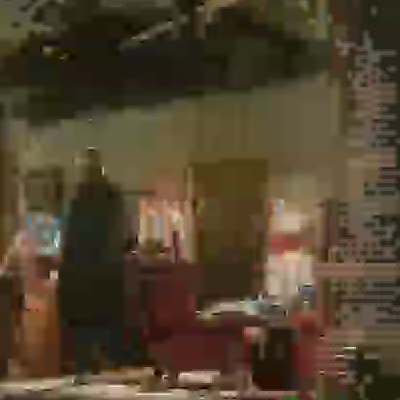
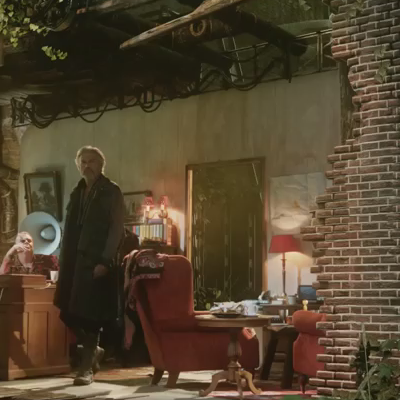
update versus

diff --git a/README.md b/README.md
@@ -106,17 +106,17 @@ Where legacy wavelet codecs (like JPEG 2000's EBCOT) and modern DCT codecs (with
 
 (CC) Blender Foundation | [mango.blender.org](https://mango.blender.org)
 
-#### 3. Frame 1395 (H.265 Min SSIM)
+#### 3. Frame 788 (H.265 Min SSIM)
 | Original | VEVC | H.264(SW) | H.265(SW) |
 |:---:|:---:|:---:|:---:|
-| <img src="docs/versus_hevc_min_frame1395_orig.png" width="200" /> | <img src="docs/versus_hevc_min_frame1395_vevc.png" width="200" /> | <img src="docs/versus_hevc_min_frame1395_h264.png" width="200" /> | <img src="docs/versus_hevc_min_frame1395_hevc.png" width="200" /> |
+| <img src="docs/versus_hevc_min_frame788_orig.png" width="200" /> | <img src="docs/versus_hevc_min_frame788_vevc.png" width="200" /> | <img src="docs/versus_hevc_min_frame788_h264.png" width="200" /> | <img src="docs/versus_hevc_min_frame788_hevc.png" width="200" /> |
 
 (CC) Blender Foundation | [mango.blender.org](https://mango.blender.org)
 
-#### 4. Frame 840 (14 seconds at 60fps)
+#### 4. Frame 420 (14 seconds at 60fps)
 | Original | VEVC | H.264(SW) | H.265(SW) |
 |:---:|:---:|:---:|:---:|
-| <img src="docs/versus_14s_frame840_orig.png" width="200" /> | <img src="docs/versus_14s_frame840_vevc.png" width="200" /> | <img src="docs/versus_14s_frame840_h264.png" width="200" /> | <img src="docs/versus_14s_frame840_hevc.png" width="200" /> |
+| <img src="docs/versus_14s_frame420_orig.png" width="200" /> | <img src="docs/versus_14s_frame420_vevc.png" width="200" /> | <img src="docs/versus_14s_frame420_h264.png" width="200" /> | <img src="docs/versus_14s_frame420_hevc.png" width="200" /> |
 
 (CC) Blender Foundation | [mango.blender.org](https://mango.blender.org)
 
